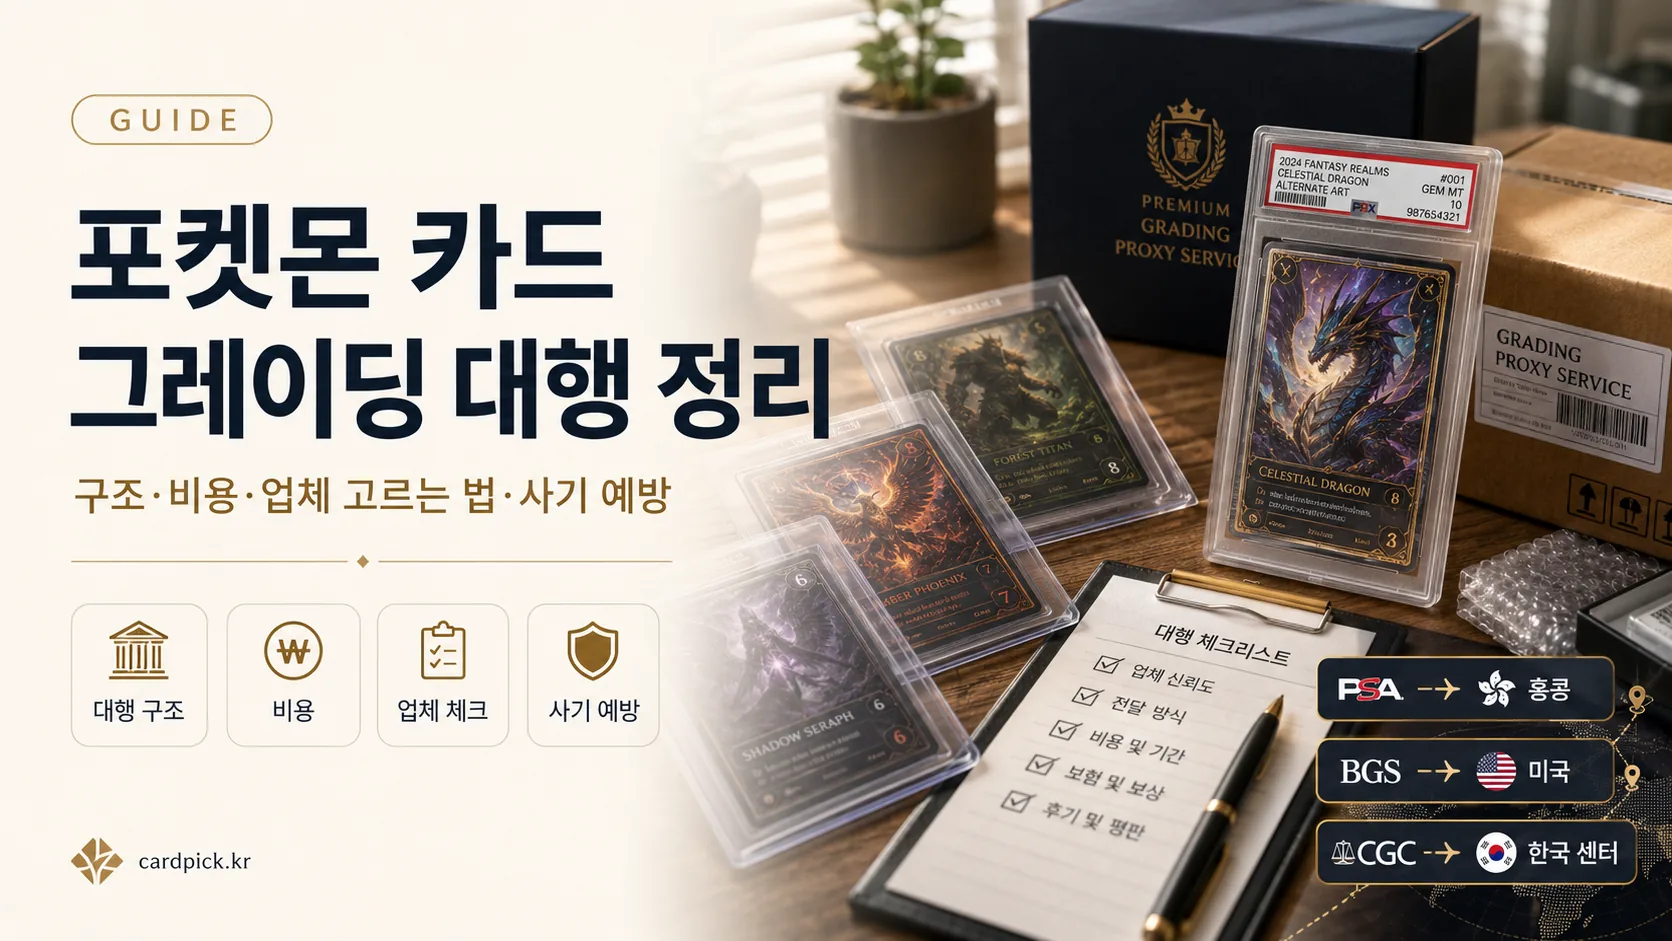
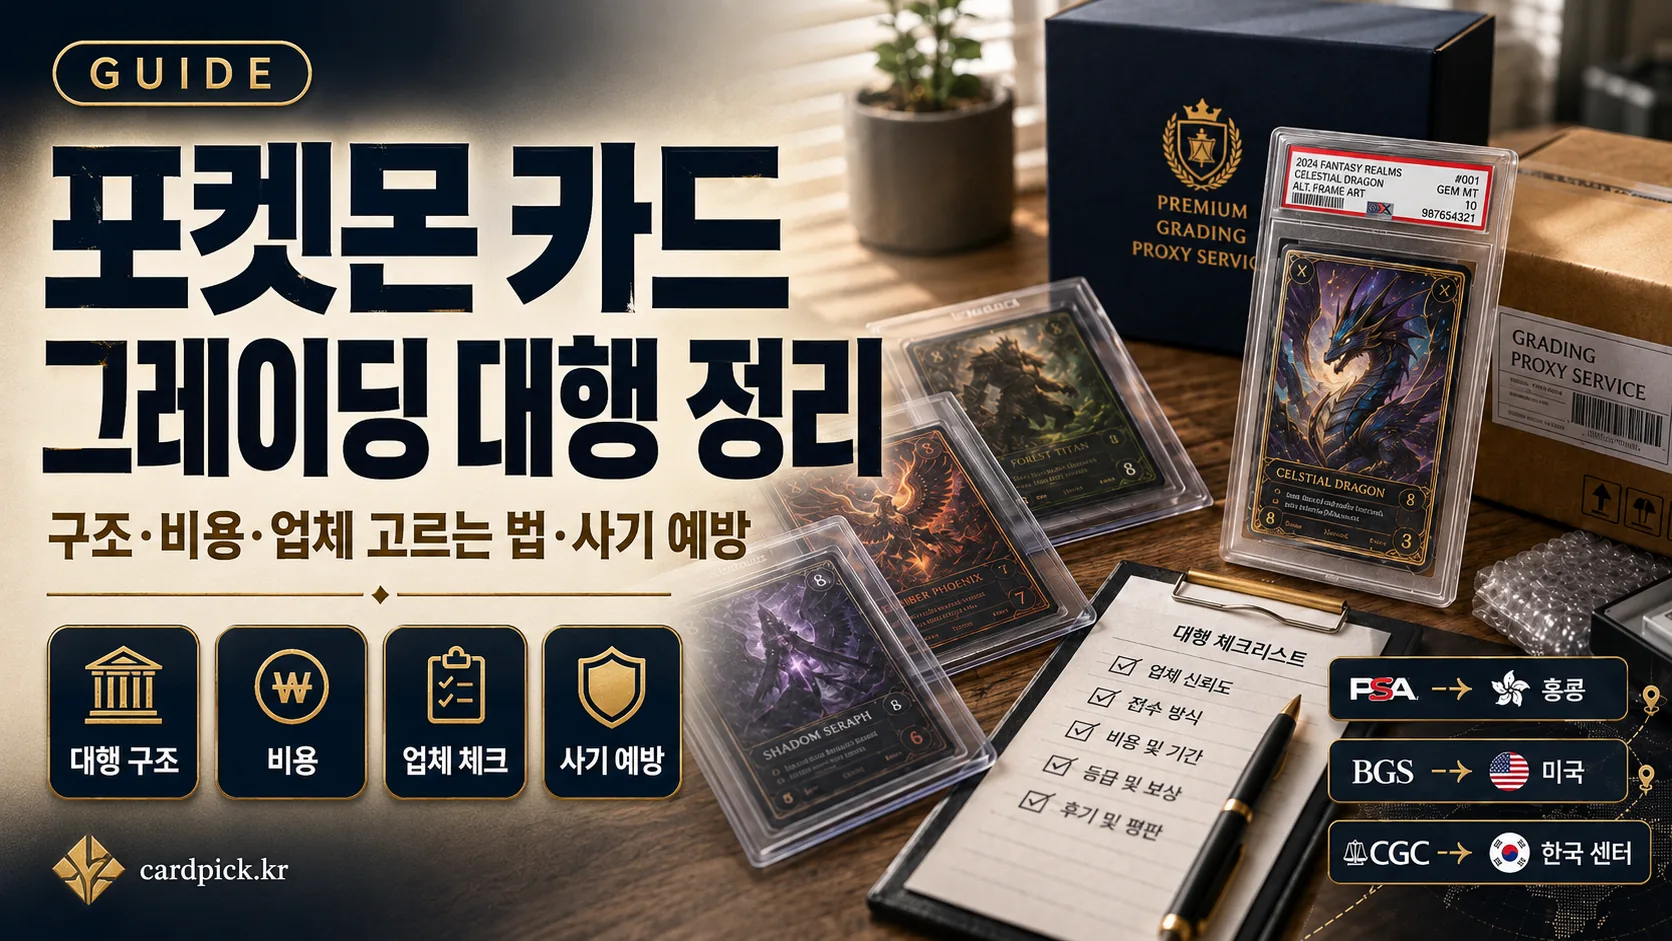
thumbnail: 그레이딩 대행 가이드 hero 썸네일 교체 (a339f341) + v2 캐시버스트

diff --git a/guide-grading-proxy.html b/guide-grading-proxy.html
@@ -14,7 +14,7 @@
 <meta property="og:title" content="포켓몬 카드 그레이딩 대행 정리: 구조·비용·업체 고르는 법">
 <meta property="og:description" content="PSA·BGS·CGC 대행 구조, 회사별 접수 경로, 비용 구성, 업체 체크리스트, 사기 예방.">
 <meta property="og:url" content="https://cardpick.kr/guide-grading-proxy">
-<meta property="og:image" content="https://cardpick.kr/images/guides/grading-proxy-hero.webp">
+<meta property="og:image" content="https://cardpick.kr/images/guides/grading-proxy-hero.webp?v=2">
 <meta property="og:image:width" content="1672">
 <meta property="og:image:height" content="941">
 <meta property="og:image:alt" content="포켓몬 카드 그레이딩 대행 구조와 비용 정리">
@@ -24,7 +24,7 @@
 <meta property="article:published_time" content="2026-06-05T10:00:00+09:00">
 <meta property="article:author" content="카드픽">
 
-<link rel="preload" as="image" href="/images/guides/grading-proxy-hero.webp" imagesrcset="/images/guides/grading-proxy-hero-480.webp 480w, /images/guides/grading-proxy-hero-800.webp 800w, /images/guides/grading-proxy-hero.webp 1672w" imagesizes="(max-width:720px) 100vw, 760px" fetchpriority="high">
+<link rel="preload" as="image" href="/images/guides/grading-proxy-hero.webp?v=2" imagesrcset="/images/guides/grading-proxy-hero-480.webp?v=2 480w, /images/guides/grading-proxy-hero-800.webp?v=2 800w, /images/guides/grading-proxy-hero.webp?v=2 1672w" imagesizes="(max-width:720px) 100vw, 760px" fetchpriority="high">
 <link rel="preconnect" href="https://cdn.jsdelivr.net">
 <link rel="preconnect" href="https://fonts.googleapis.com">
 <link rel="preconnect" href="https://fonts.gstatic.com" crossorigin>
@@ -136,7 +136,7 @@
 </script>
 <!-- JSON-LD: Article -->
 <script type="application/ld+json">
-{"@context":"https://schema.org","@type":"Article","headline":"포켓몬 카드 그레이딩 대행 정리: 구조·비용·업체 고르는 법·사기 예방","description":"PSA·BGS·CGC 그레이딩 대행 구조, 회사별 접수 경로, 비용 구성, 업체 고르는 체크리스트, 사기·분쟁 예방.","image":["https://cardpick.kr/images/guides/grading-proxy-hero.webp"],"author":{"@type":"Organization","name":"카드픽","url":"https://cardpick.kr/"},"publisher":{"@type":"Organization","name":"카드픽","url":"https://cardpick.kr/","logo":{"@type":"ImageObject","url":"https://cardpick.kr/icon-512.png"}},"datePublished":"2026-06-05","dateModified":"2026-06-05","inLanguage":"ko","mainEntityOfPage":{"@type":"WebPage","@id":"https://cardpick.kr/guide-grading-proxy"}}
+{"@context":"https://schema.org","@type":"Article","headline":"포켓몬 카드 그레이딩 대행 정리: 구조·비용·업체 고르는 법·사기 예방","description":"PSA·BGS·CGC 그레이딩 대행 구조, 회사별 접수 경로, 비용 구성, 업체 고르는 체크리스트, 사기·분쟁 예방.","image":["https://cardpick.kr/images/guides/grading-proxy-hero.webp?v=2"],"author":{"@type":"Organization","name":"카드픽","url":"https://cardpick.kr/"},"publisher":{"@type":"Organization","name":"카드픽","url":"https://cardpick.kr/","logo":{"@type":"ImageObject","url":"https://cardpick.kr/icon-512.png"}},"datePublished":"2026-06-05","dateModified":"2026-06-05","inLanguage":"ko","mainEntityOfPage":{"@type":"WebPage","@id":"https://cardpick.kr/guide-grading-proxy"}}
 </script>
 <!-- JSON-LD: FAQPage -->
 <script type="application/ld+json">
@@ -201,8 +201,8 @@
   </h1>
 
   <figure class="hero-css">
-    <img src="/images/guides/grading-proxy-hero.webp"
-         srcset="/images/guides/grading-proxy-hero-480.webp 480w, /images/guides/grading-proxy-hero-800.webp 800w, /images/guides/grading-proxy-hero.webp 1672w"
+    <img src="/images/guides/grading-proxy-hero.webp?v=2"
+         srcset="/images/guides/grading-proxy-hero-480.webp?v=2 480w, /images/guides/grading-proxy-hero-800.webp?v=2 800w, /images/guides/grading-proxy-hero.webp?v=2 1672w"
          sizes="(max-width:720px) 100vw, 760px"
          width="1672" height="941" fetchpriority="high"
          alt="포켓몬 카드 그레이딩 대행: PSA 홍콩·BGS 미국·CGC 한국 센터 접수 경로"

diff --git a/functions/guides.js b/functions/guides.js
@@ -208,7 +208,7 @@ export async function onRequest() {
       excerpt: 'PSA·BGS·CGC 그레이딩 대행이 어떻게 동작하는지, 회사별 접수 경로(PSA 홍콩·BGS 미국·CGC 한국 센터), 대행 비용 구성, 믿을 업체 고르는 체크리스트, 선입금·분실 같은 사기·분쟁 예방까지 정리.',
       date: '2026-06-05',
       readTime: '9분',
-      thumb: '/images/guides/grading-proxy-hero.webp',
+      thumb: '/images/guides/grading-proxy-hero.webp?v=2',
       heroBg: 'linear-gradient(135deg, #0D121B 0%, #08050D 100%)'
     },
     {